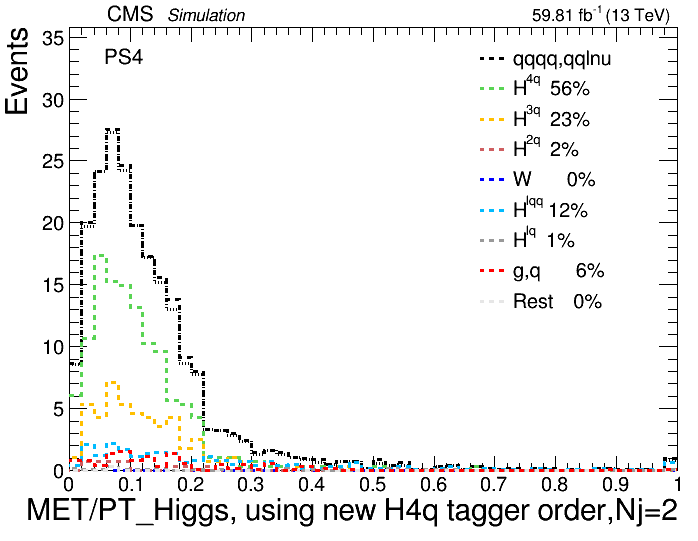
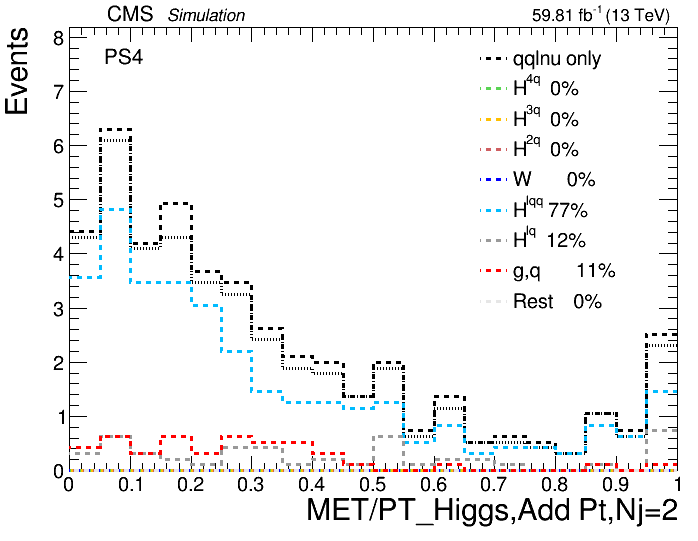
Pt, MET

diff --git a/Makeplots_HWW_Nj2_OverData.py b/Makeplots_HWW_Nj2_OverData.py
@@ -179,13 +179,13 @@ class ANALYSIS:
             #self.construct_plot(Nj, "JetMass_Nj2_c"    ,selection          ,"",tag  ,50, 0 ,60,"Mj_c, Nj=2"                        ,"Events" ,logy,CR);             
             #self.construct_plot(Nj, "JetMass_Nj2_a"    ,selection          ,"",tag  ,50, 0 ,250,"Mj_a, Nj=2"                        ,"Events" ,logy,CR);             
             #self.construct_plot(Nj, "JetMass_Nj2_c"    ,selection          ,"",tag  ,50, 0 ,250,"Mj_c, Nj=2"                        ,"Events" ,logy,CR);             
-            self.construct_plot(Nj, "JetMass_Nj2_a_new"    ,selection          ,"",tag  ,35, 0 ,250,"Mj_a, using new H4q tagger,LeadingPt>450,Nj=2"                        ,"Events" ,logy,CR);             
-            self.construct_plot(Nj, "JetMass_Nj2_c_new"    ,selection          ,"",tag  ,35, 0 ,250,"Mj_c, using new H4q tagger,LeadingPt>450,Nj=2"                        ,"Events" ,logy,CR);             
-            #self.construct_plot(Nj, "MET_pt/Pt_Nj2_a_new"    ,selection          ,"",tag  ,20, 0 ,1,"MET/PT_Higgs, using new H4q tagger order,Nj=2"                        ,"Events" ,logy,CR);  
-            #self.construct_plot(Nj, "MET_pt/(Pt_Nj2_a_new+Pt_Nj2_c_new)**0.5"    ,selection          ,"",tag  ,20, 0 ,10,"MET Significance"                        ,"Events" ,logy,CR);  
+            #self.construct_plot(Nj, "JetMass_Nj2_a_new"    ,selection          ,"",tag  ,35, 0 ,250,"Mj_a, using new H4q tagger,LeadingPt>450,Nj=2"                        ,"Events" ,logy,CR);             
+            #self.construct_plot(Nj, "JetMass_Nj2_c_new"    ,selection          ,"",tag  ,35, 0 ,250,"Mj_c, using new H4q tagger,LeadingPt>450,Nj=2"                        ,"Events" ,logy,CR);             
+            self.construct_plot(Nj, "MET_pt/Pt_Nj2_a_new"    ,selection          ,"",tag  ,20, 0 ,1,"MET/PT_Higgs,Add Pt,Nj=2"                        ,"Events" ,logy,CR);  
+            self.construct_plot(Nj, "MET_pt/(Pt_Nj2_a_new+Pt_Nj2_c_new)**0.5"    ,selection          ,"",tag  ,20, 0 ,10,"MET Significance,Add Pt,Nj=2"                        ,"Events" ,logy,CR);  
                                  
-            #self.construct_plot(Nj, "MET_pt"    ,selection          ,"",tag  ,20, 0 ,800,"MET, Nj=2"                        ,"Events" ,logy,CR);             
-            #self.construct_plot(Nj, "Pt_Nj2_a_new"    ,selection          ,"",tag  ,50,100,2200,"P_T for ja,using new H4q tagger, Nj=2"                        ,"Events" ,logy,CR);             
+            self.construct_plot(Nj, "MET_pt"    ,selection          ,"",tag  ,20, 0 ,800,"MET, Add pt, Nj=2"                        ,"Events" ,logy,CR);             
+            self.construct_plot(Nj, "Pt_Nj2_a_new"    ,selection          ,"",tag  ,50,100,2200,"P_T for ja,using new H4q tagger,Add pt,Nj=2"                        ,"Events" ,logy,CR);             
             #self.construct_plot(Nj, "Pt_Nj2_c_new"    ,selection          ,"",tag  ,50, 100 ,2200,"P_T for jc,using new H4q tagger, Nj=2"                        ,"Events" ,logy,CR);             
             #self.construct_plot(Nj, "Pt_Nj2_a"    ,selection          ,"",tag  ,50,100,2200,"P_T for ja, Nj=2"                        ,"Events" ,logy,CR);             
             #self.construct_plot(Nj, "Pt_Nj2_c"    ,selection          ,"",tag  ,50, 100 ,2200,"P_T for jc, Nj=2"                        ,"Events" ,logy,CR);             
